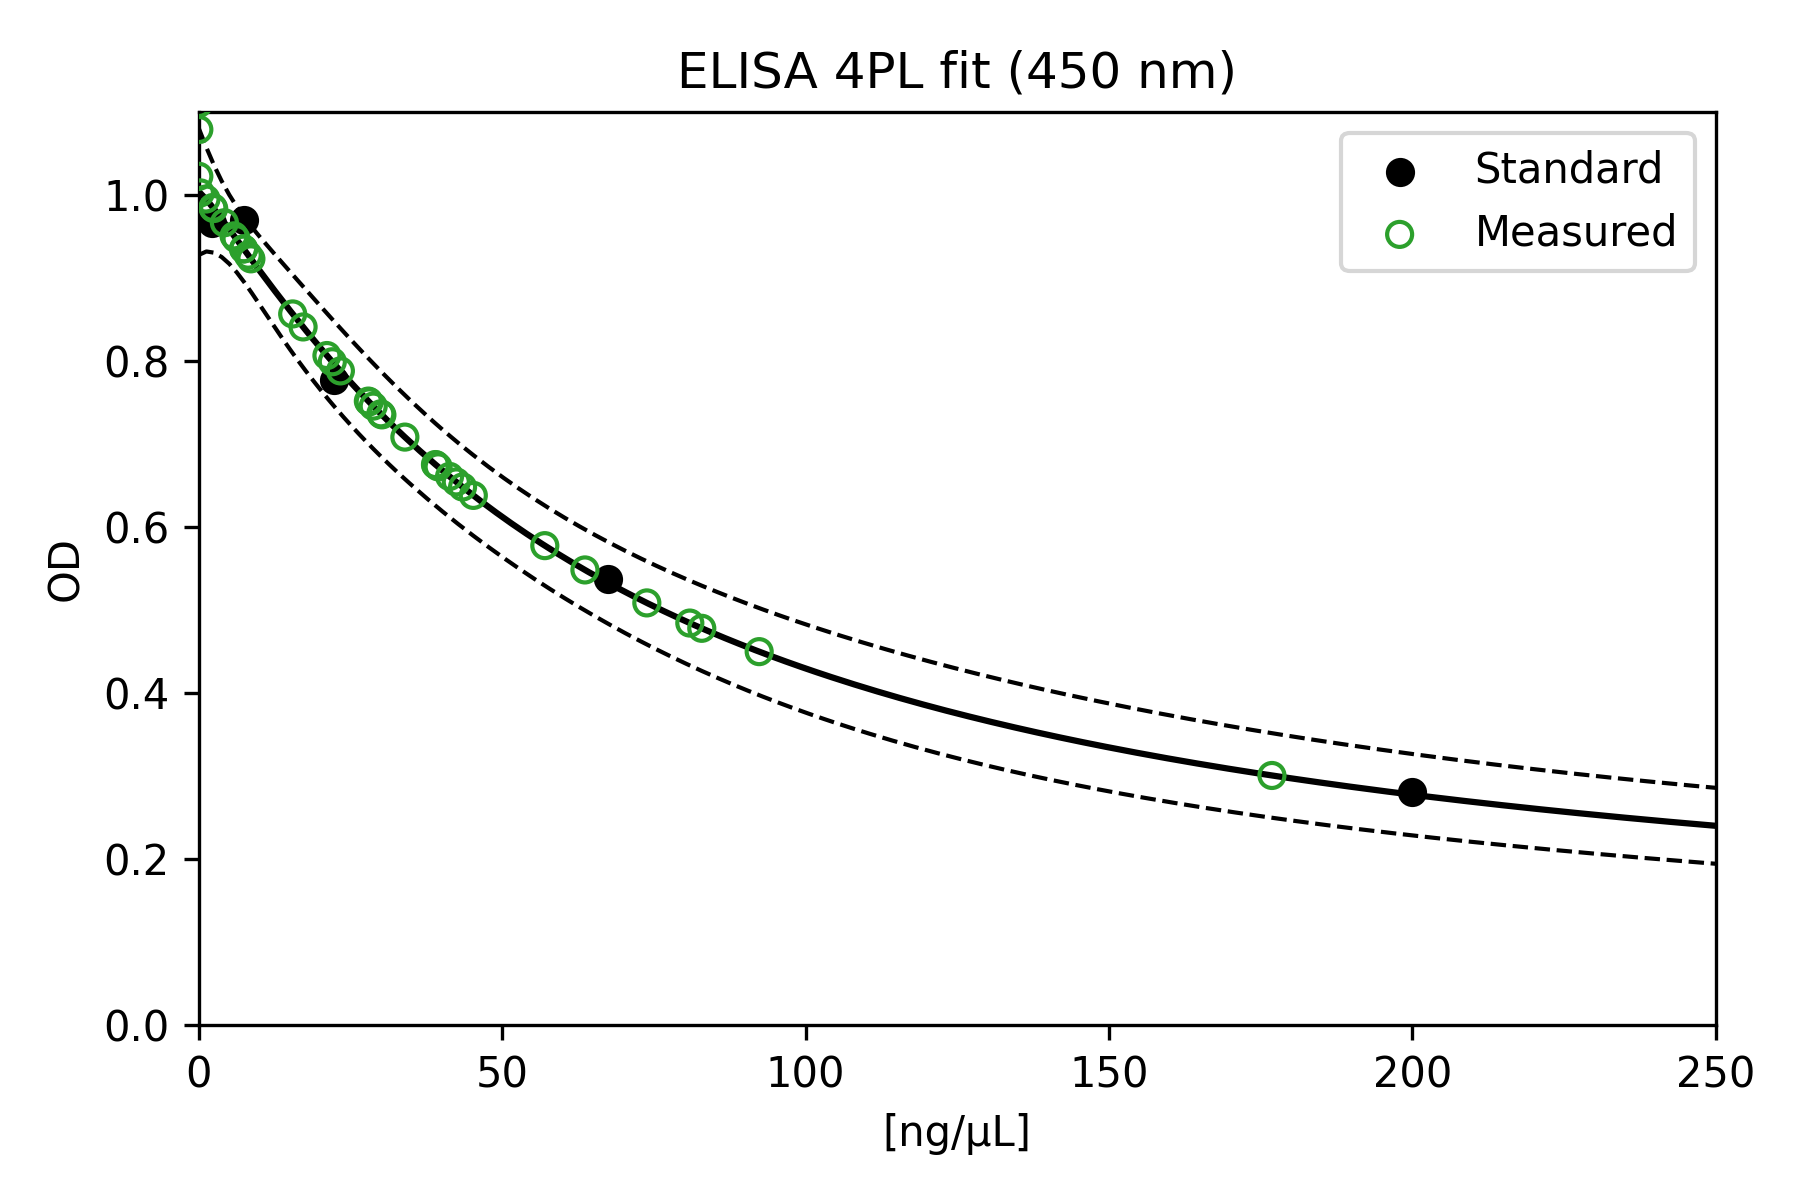
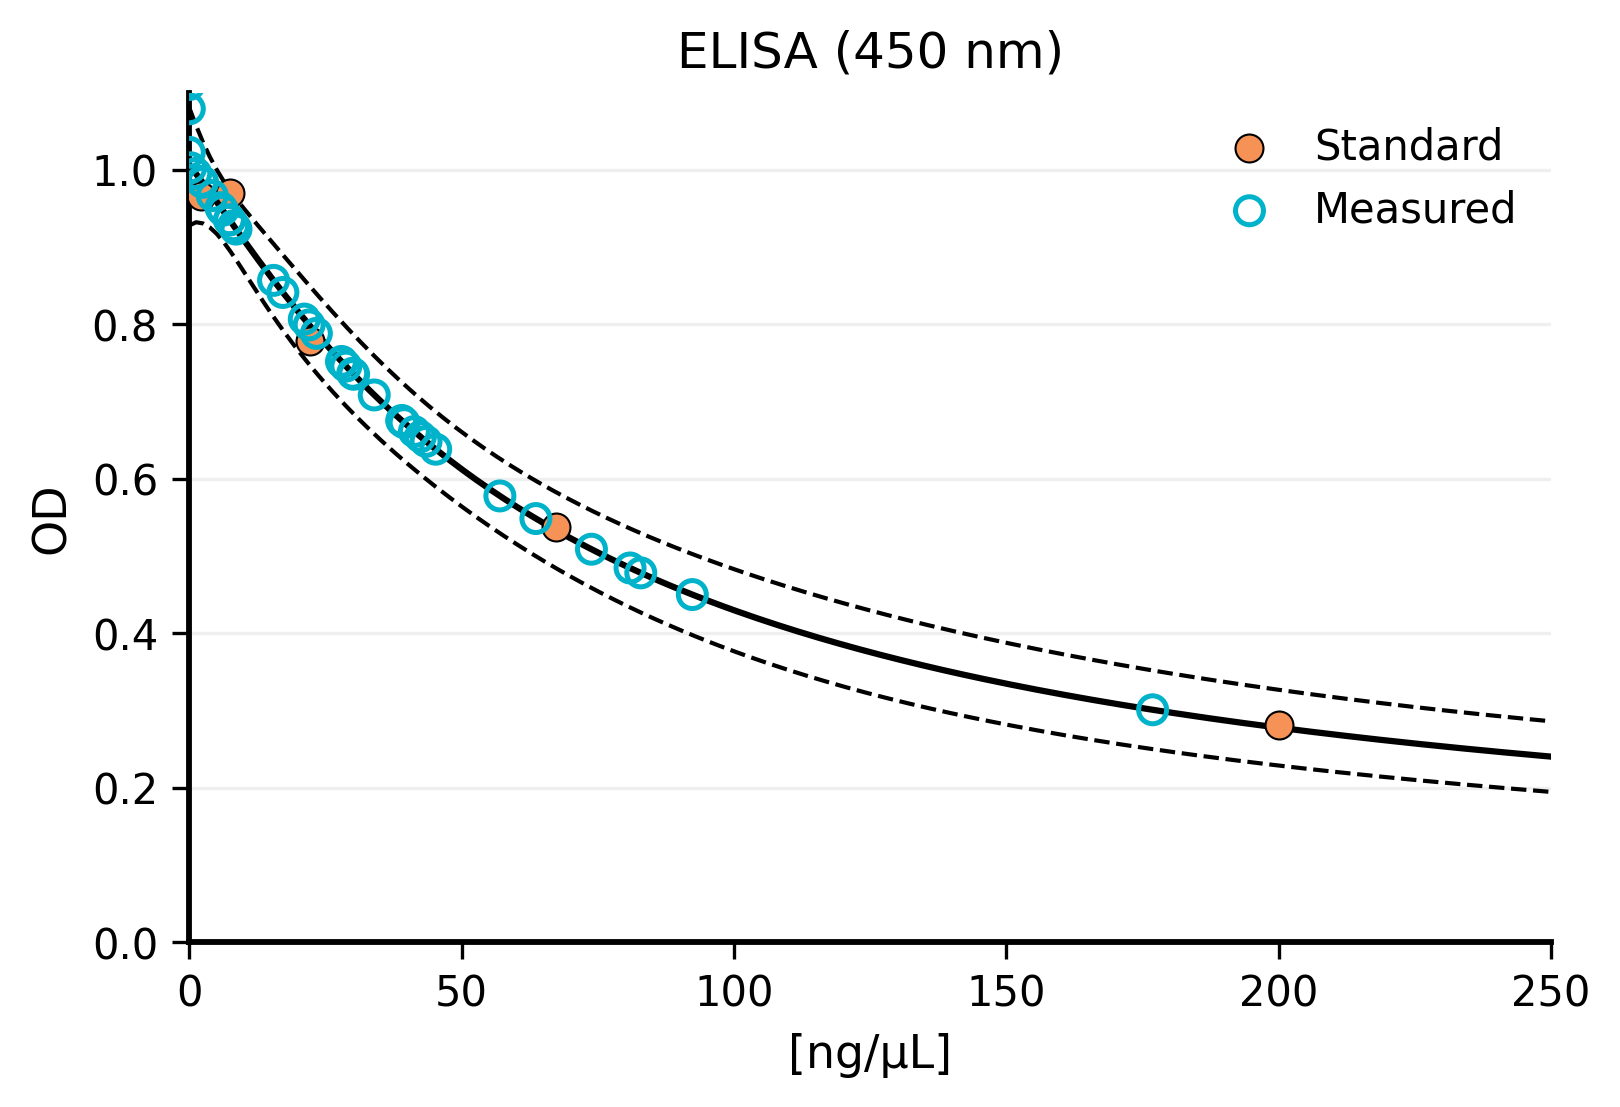
adding details to Elisa plot

Changed region(s): [[0.0, 0.0307, 0.9877, 0.9828]]

diff --git a/figures_SI/auxiliar_functions.py b/figures_SI/auxiliar_functions.py
@@ -204,68 +204,107 @@ class AuxiliarFunctions:
         output_file: str | None = None,
     ) -> None:
         """
-        Plot the fitted ELISA standard curve and sample data.
+        Plot the fitted ELISA standard curve and sample data using
+        a clean, publication-style aesthetic.
 
-        Parameters
-        ----------
-        standards : pandas.DataFrame
-            Data frame containing at least columns "Concentration" and "OD"
-            for the standard points.
-        samples : pandas.DataFrame
-            Data frame containing at least column "OD" and optionally
-            "EstimatedConcentration" for unknown samples.
-        params : numpy.ndarray
-            Fitted parameters [a, b, c, d].
-        cov : numpy.ndarray
-            Parameter covariance matrix from `curve_fit`.
-        x_min : float, optional
-            Minimum x-axis value (concentration) for the plot.
-        x_max : float, optional
-            Maximum x-axis value (concentration) for the plot.
-        output_file : str or None, optional
-            If provided, save the figure to this path.
+        The plot style is inspired by modern scientific figures:
+        - Minimal spines (top and right removed).
+        - Slightly larger fonts.
+        - Orange and teal color palette for the groups.
+        - Legend outside or at the edge of the axes.
         """
+        # ------------------------------------------------------------------
+        # Style configuration
+        # ------------------------------------------------------------------
+        # Using a similar pallete color
+        color_standard = "#F79256"  
+        color_sample = "#00B2CA"    
+
+        plt.rcParams.update({
+            "font.size": 10,
+            "axes.titlesize": 12,
+            "axes.labelsize": 11,
+            "xtick.labelsize": 10,
+            "ytick.labelsize": 10,
+            "axes.spines.top": False,
+            "axes.spines.right": False,
+            "axes.linewidth": 1.2,
+            "xtick.direction": "out",
+            "ytick.direction": "out",
+            "xtick.major.size": 4,
+            "ytick.major.size": 4,
+            "figure.dpi": 120,
+        })
+
+        # Generate smooth x-grid for the fitted curve
         x_plot = np.linspace(x_min, x_max, 200)
         y_fit, y_low, y_up = cls.prediction_band(x_plot, params, cov, alpha=0.05)
 
-        fig, ax = plt.subplots(figsize=(6, 4))
+        fig, ax = plt.subplots(figsize=(5.5, 3.8))
 
-        # Standards: black filled circles
+        # ------------------------------------------------------------------
+        # Scatter points
+        # ------------------------------------------------------------------
+        # Standards: orange filled circles
         ax.scatter(
             standards["Concentration"],
             standards["OD"],
-            c="black",
+            s=45,
+            c=color_standard,
+            edgecolors="black",
+            linewidths=0.5,
             label="Standard",
             zorder=3,
         )
 
-        # Samples: green open circles positioned at estimated concentration
+        # Samples: teal open circles at estimated concentrations
         if "EstimatedConcentration" in samples.columns:
             ax.scatter(
                 samples["EstimatedConcentration"],
                 samples["OD"],
+                s=45,
                 facecolors="none",
-                edgecolors="tab:green",
+                edgecolors=color_sample,
+                linewidths=1.2,
                 label="Measured",
                 zorder=3,
             )
 
+        # ------------------------------------------------------------------
         # Fitted curve and confidence band
-        ax.plot(x_plot, y_fit, "k", linewidth=1.5)
-        ax.plot(x_plot, y_low, "k--", linewidth=1.0)
-        ax.plot(x_plot, y_up, "k--", linewidth=1.0)
+        # ------------------------------------------------------------------
+        ax.plot(x_plot, y_fit, color="black", linewidth=1.5)
+        ax.plot(x_plot, y_low, color="black", linestyle="--", linewidth=1.0)
+        ax.plot(x_plot, y_up, color="black", linestyle="--", linewidth=1.0)
 
-        # Styling similar to the Prism figure
+        # ------------------------------------------------------------------
+        # Axes, labels and limits
+        # ------------------------------------------------------------------
         ax.set_xlabel("[ng/µL]")
         ax.set_ylabel("OD")
         ax.set_xlim(x_min, x_max)
         ax.set_ylim(0.0, 1.1)
-        ax.legend()
-        ax.set_title("ELISA 4PL fit (450 nm)")
+
+        # Make left and bottom spines a bit thicker
+        for spine in ["bottom", "left"]:
+            ax.spines[spine].set_linewidth(1.4)
+
+        # Light grid on y-axis (optional, like many modern figures)
+        ax.grid(axis="y", alpha=0.2)
+
+        # Legend similar to panel B of your figure
+        leg = ax.legend(
+            frameon=False,
+            loc="upper right",
+            borderpad=0.3,
+            handlelength=1.5,
+        )
+
+        ax.set_title("ELISA (450 nm)")
 
         fig.tight_layout()
 
         if output_file is not None:
-            fig.savefig(output_file, dpi=300)
+            fig.savefig(output_file, dpi=300, bbox_inches="tight")
 
         plt.show()
